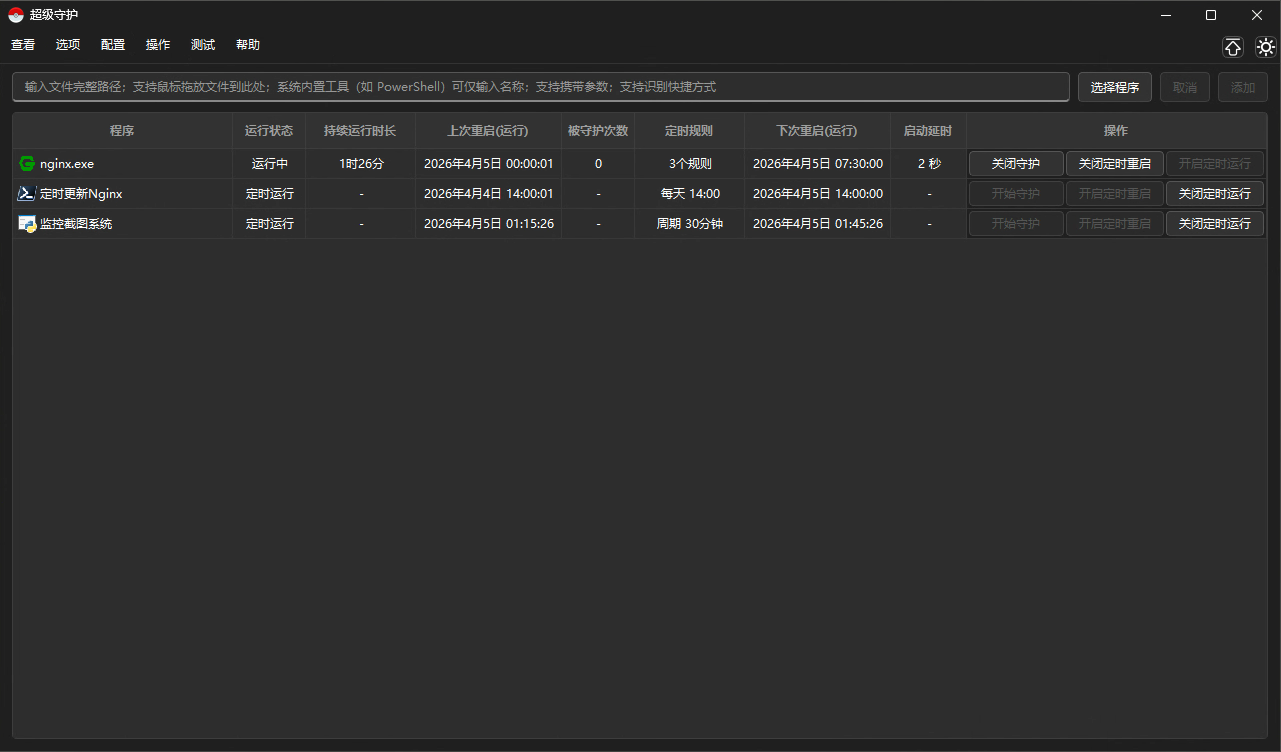
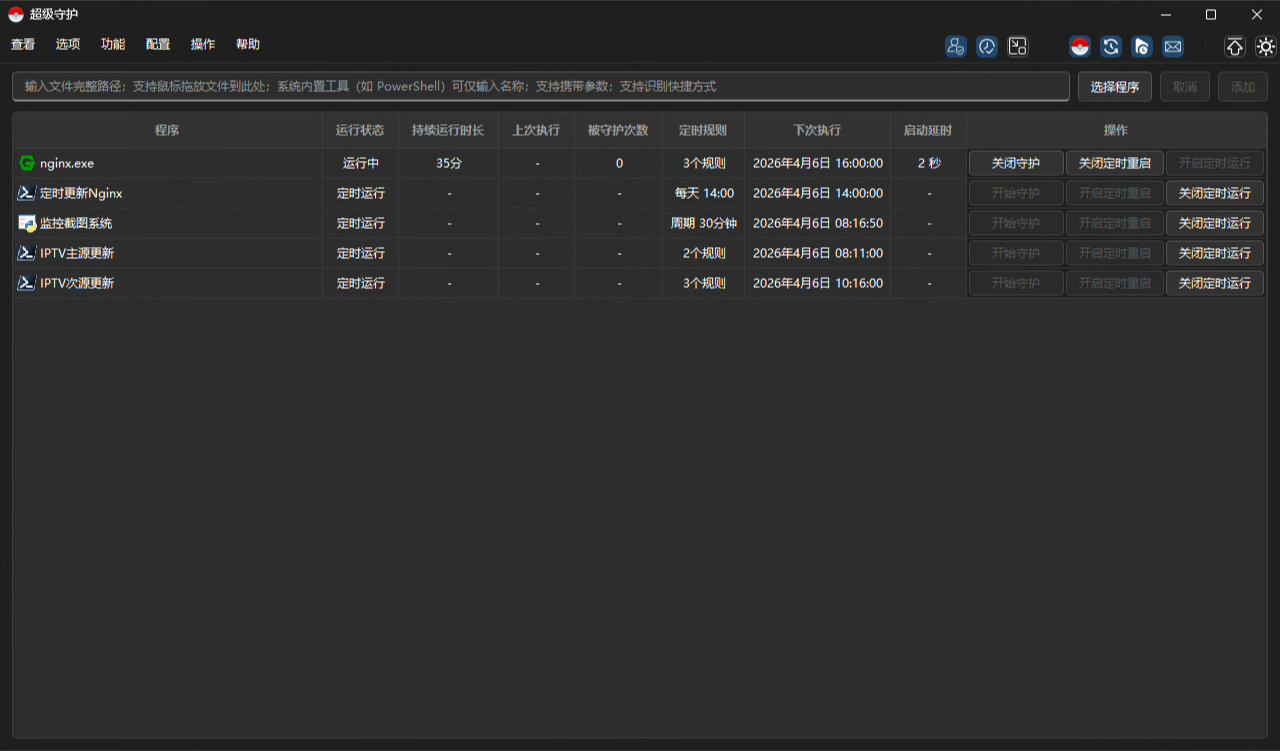
1.0.4

diff --git a/src/ui/SuperGuardianColumns.cpp b/src/ui/SuperGuardianColumns.cpp
@@ -10,7 +10,45 @@ namespace {
 
 constexpr int kActionColumn = 10;
 constexpr int kDataColumnCount = 10;
+constexpr int kProgramColumn = 1;
 constexpr int kDefaultHiddenColumns[] = { 0, 6 };
+
+int measureHeaderWidth(QTableWidget* tableWidget, int column) {
+    if (!tableWidget) return 40;
+    QHeaderView* header = tableWidget->horizontalHeader();
+    QFontMetrics fm(header->font());
+    QTableWidgetItem* hdr = tableWidget->horizontalHeaderItem(column);
+    const int textW = hdr ? fm.horizontalAdvance(hdr->text()) : 0;
+    return qMax(40, textW + 28);
+}
+
+int measureContentWidth(QTableWidget* tableWidget, int column) {
+    if (!tableWidget) return 40;
+
+    int required = measureHeaderWidth(tableWidget, column);
+    for (int row = 0; row < tableWidget->rowCount(); ++row) {
+        if (QWidget* cellWidget = tableWidget->cellWidget(row, column)) {
+            required = qMax(required, cellWidget->sizeHint().width() + 12);
+        }
+
+        QTableWidgetItem* item = tableWidget->item(row, column);
+        if (!item) continue;
+
+        QFontMetrics fm(item->font().family().isEmpty() ? tableWidget->font() : item->font());
+        int textW = fm.horizontalAdvance(item->text()) + 16;
+
+        if (column == kProgramColumn) {
+            if (!qvariant_cast<QIcon>(item->data(Qt::DecorationRole)).isNull())
+                textW += 24;
+            if (item->data(Qt::UserRole + 2).toBool())
+                textW += 20;
+        }
+
+        required = qMax(required, textW);
+    }
+
+    return required;
+}
 
 }
 
@@ -54,11 +92,16 @@ void SuperGuardian::distributeColumnWidths() {
     }
 
     double visibleSum = 0;
+    int visibleMinTotal = 0;
     for (int i = 0; i < kDataColumnCount; i++) {
-        if (!tableWidget->isColumnHidden(i)) visibleSum += ratios[i];
+        if (!tableWidget->isColumnHidden(i)) {
+            visibleSum += ratios[i];
+            visibleMinTotal += minWidths[i];
+        }
     }
     if (visibleSum <= 0.001) { autoResizingColumns = false; return; }
 
+    int extraAvailable = qMax(0, available - visibleMinTotal);
     int remaining = available;
     int lastVisible = -1;
     for (int i = 0; i < kDataColumnCount; i++) {
@@ -67,9 +110,10 @@ void SuperGuardian::distributeColumnWidths() {
     for (int i = 0; i < kDataColumnCount; i++) {
         if (tableWidget->isColumnHidden(i)) continue;
         if (i == lastVisible) {
-            tableWidget->setColumnWidth(i, qMax(minWidths[i], remaining));
+            tableWidget->setColumnWidth(i, qMax(0, remaining));
         } else {
-            int w = qMax(minWidths[i], (int)(available * ratios[i] / visibleSum));
+            int extra = (int)(extraAvailable * ratios[i] / visibleSum);
+            int w = minWidths[i] + extra;
             tableWidget->setColumnWidth(i, w);
             remaining -= w;
         }
@@ -90,7 +134,126 @@ void SuperGuardian::saveColumnWidths() {
 
 void SuperGuardian::resetColumnWidths() {
     ConfigDatabase::instance().remove(u"columnRatios"_s);
-    distributeColumnWidths();
+    if (!tableWidget) return;
+
+    autoResizingColumns = true;
+
+    const int actionWidth = tableWidget->columnWidth(kActionColumn);
+    const int available = tableWidget->viewport()->width() - actionWidth;
+    if (available <= 100) {
+        autoResizingColumns = false;
+        return;
+    }
+
+    QVector<int> visibleColumns;
+    visibleColumns.reserve(kDataColumnCount);
+    for (int i = 0; i < kDataColumnCount; ++i) {
+        if (!tableWidget->isColumnHidden(i))
+            visibleColumns.append(i);
+    }
+    if (visibleColumns.isEmpty()) {
+        autoResizingColumns = false;
+        return;
+    }
+
+    QVector<int> headerWidths(kDataColumnCount, 40);
+    QVector<int> requiredWidths(kDataColumnCount, 40);
+    for (int col : visibleColumns) {
+        headerWidths[col] = measureHeaderWidth(tableWidget, col);
+        requiredWidths[col] = measureContentWidth(tableWidget, col);
+    }
+
+    const bool programVisible = !tableWidget->isColumnHidden(kProgramColumn);
+    int otherRequiredTotal = 0;
+    for (int col : visibleColumns) {
+        if (col == kProgramColumn) continue;
+        otherRequiredTotal += requiredWidths[col];
+    }
+
+    QVector<int> finalWidths(kDataColumnCount, 0);
+    for (int col : visibleColumns) {
+        if (col != kProgramColumn)
+            finalWidths[col] = requiredWidths[col];
+    }
+
+    if (programVisible) {
+        int remainingForProgram = available - otherRequiredTotal;
+        finalWidths[kProgramColumn] = qMax(remainingForProgram, headerWidths[kProgramColumn]);
+
+        int total = 0;
+        for (int col : visibleColumns)
+            total += finalWidths[col];
+
+        if (total > available) {
+            int overflow = total - available;
+
+            // 先从“程序”列借用
+            int programShrinkable = qMax(0, finalWidths[kProgramColumn] - headerWidths[kProgramColumn]);
+            int borrowFromProgram = qMin(programShrinkable, overflow);
+            finalWidths[kProgramColumn] -= borrowFromProgram;
+            overflow -= borrowFromProgram;
+
+            // 若仍然超出，只能把其它列压缩到表头最小宽度，仍保证总宽度不超出可用区域
+            if (overflow > 0) {
+                for (int col : visibleColumns) {
+                    if (col == kProgramColumn || overflow <= 0) continue;
+                    int shrinkable = qMax(0, finalWidths[col] - headerWidths[col]);
+                    int take = qMin(shrinkable, overflow);
+                    finalWidths[col] -= take;
+                    overflow -= take;
+                }
+            }
+
+            // 极端窄窗口兜底：程序列至少保留一个表头宽度，否则取剩余值
+            if (overflow > 0) {
+                int sumOthers = 0;
+                for (int col : visibleColumns) {
+                    if (col != kProgramColumn)
+                        sumOthers += finalWidths[col];
+                }
+                finalWidths[kProgramColumn] = qMax(0, available - sumOthers);
+            }
+        }
+
+        // 若有多余空间，全部给程序列
+        int used = 0;
+        for (int col : visibleColumns)
+            used += finalWidths[col];
+        if (used < available)
+            finalWidths[kProgramColumn] += available - used;
+    } else {
+        int used = 0;
+        for (int col : visibleColumns) {
+            finalWidths[col] = requiredWidths[col];
+            used += finalWidths[col];
+        }
+
+        if (used > available) {
+            int overflow = used - available;
+            for (int col : visibleColumns) {
+                if (overflow <= 0) break;
+                int shrinkable = qMax(0, finalWidths[col] - headerWidths[col]);
+                int take = qMin(shrinkable, overflow);
+                finalWidths[col] -= take;
+                overflow -= take;
+            }
+        }
+    }
+
+    for (int col : visibleColumns)
+        tableWidget->setColumnWidth(col, finalWidths[col]);
+
+    autoResizingColumns = false;
+}
+
+void SuperGuardian::requestResetColumnWidths() {
+    if (pendingResetColumnWidths)
+        return;
+    pendingResetColumnWidths = true;
+    QTimer::singleShot(0, this, [this]() {
+        pendingResetColumnWidths = false;
+        resetColumnWidths();
+    });
 }
 
 // ---- 列显示/隐藏管理 ----

diff --git a/src/table/DesktopSelectTable.cpp b/src/table/DesktopSelectTable.cpp
@@ -29,14 +29,25 @@ void updateOpWidgetStyle(DesktopSelectTable* table, int row) {
     bool hovered = row == table->hoveredRow();
     widget->setStyleSheet(opContainerStyle(currentThemeName() == "dark", selected, hovered));
 }
+
+int firstVisibleColumn(const DesktopSelectTable* table) {
+    if (!table)
+        return 0;
+    for (int col = 0; col < table->columnCount(); ++col) {
+        if (!table->isColumnHidden(col))
+            return col;
+    }
+    return 0;
+}
 }
 
 int DesktopSelectTable::dropTargetRow(const QPoint& pos) {
     int rc = rowCount();
     if (rc == 0)
         return 0;
+    const int refCol = firstVisibleColumn(this);
     for (int row = 0; row < rc; ++row) {
-        QRect rect = visualRect(model()->index(row, 0));
+        QRect rect = visualRect(model()->index(row, refCol));
         rect.setLeft(0);
         rect.setRight(viewport()->width());
         if (pos.y() < rect.center().y())
@@ -172,6 +183,7 @@ void DesktopSelectTable::mouseMoveEvent(QMouseEvent* e) {
 
     if (m_rowDragMode) {
         int target = dropTargetRow(e->pos());
+        const int refCol = firstVisibleColumn(this);
         if (!m_dropLine) {
             m_dropLine = new QFrame(viewport());
             m_dropLine->setFixedHeight(2);
@@ -179,9 +191,9 @@ void DesktopSelectTable::mouseMoveEvent(QMouseEvent* e) {
         }
         int y = 0;
         if (target < rowCount()) {
-            y = visualRect(model()->index(target, 0)).top();
+            y = visualRect(model()->index(target, refCol)).top();
         } else if (rowCount() > 0) {
-            y = visualRect(model()->index(rowCount() - 1, 0)).bottom() + 1;
+            y = visualRect(model()->index(rowCount() - 1, refCol)).bottom() + 1;
         }
         m_dropLine->setGeometry(0, y - 1, viewport()->width(), 2);
         m_dropLine->show();
@@ -196,8 +208,9 @@ void DesktopSelectTable::mouseMoveEvent(QMouseEvent* e) {
     m_band->setGeometry(rect);
 
     QItemSelection bandSelection;
+    const int refCol = firstVisibleColumn(this);
     for (int row = 0; row < rowCount(); ++row) {
-        QModelIndex first = model()->index(row, 0);
+        QModelIndex first = model()->index(row, refCol);
         QRect rowRect = visualRect(first);
         rowRect.setLeft(0);
         rowRect.setRight(viewport()->width());

diff --git a/src/ui/SuperGuardianTray.cpp b/src/ui/SuperGuardianTray.cpp
@@ -221,6 +221,7 @@ void SuperGuardian::toggleVisible() {
         showNormal();
         raise();
         activateWindow();
+        QTimer::singleShot(0, this, &SuperGuardian::resetColumnWidths);
     }
 }
 
@@ -271,6 +272,7 @@ void SuperGuardian::changeEvent(QEvent* event) {
     if (event->type() == QEvent::WindowStateChange) {
         if (!(windowState() & Qt::WindowMinimized) && isVisible()) {
             show();
+            QTimer::singleShot(0, this, &SuperGuardian::resetColumnWidths);
         }
     }
     QMainWindow::changeEvent(event);
@@ -283,11 +285,7 @@ void SuperGuardian::resizeEvent(QResizeEvent* event) {
 
 void SuperGuardian::showEvent(QShowEvent* event) {
     QMainWindow::showEvent(event);
-    static bool firstShow = true;
-    if (firstShow) {
-        firstShow = false;
-        QTimer::singleShot(0, this, &SuperGuardian::distributeColumnWidths);
-    }
+    QTimer::singleShot(0, this, &SuperGuardian::resetColumnWidths);
 }
 
 bool SuperGuardian::nativeEvent(const QByteArray& eventType, void* message, qintptr* result) {
@@ -297,6 +295,7 @@ bool SuperGuardian::nativeEvent(const QByteArray& eventType, void* message, qint
         showNormal();
         raise();
         activateWindow();
+        QTimer::singleShot(0, this, &SuperGuardian::resetColumnWidths);
         if (result) *result = 0;
         return true;
     }

diff --git a/src/app/SuperGuardianInit.cpp b/src/app/SuperGuardianInit.cpp
@@ -94,6 +94,25 @@ void SuperGuardian::initSignals() {
     connect(timer, &QTimer::timeout, this, &SuperGuardian::checkProcesses);
     timer->start(2000);
 
+    if (tableWidget && tableWidget->model()) {
+        connect(tableWidget->model(), &QAbstractItemModel::dataChanged,
+            this, [this](const QModelIndex&, const QModelIndex&, const QList<int>&) {
+                requestResetColumnWidths();
+            });
+        connect(tableWidget->model(), &QAbstractItemModel::rowsInserted,
+            this, [this](const QModelIndex&, int, int) {
+                requestResetColumnWidths();
+            });
+        connect(tableWidget->model(), &QAbstractItemModel::rowsRemoved,
+            this, [this](const QModelIndex&, int, int) {
+                requestResetColumnWidths();
+            });
+        connect(tableWidget->model(), &QAbstractItemModel::modelReset,
+            this, [this]() {
+                requestResetColumnWidths();
+            });
+    }
+
     connect(tray, &QSystemTrayIcon::activated, this, &SuperGuardian::onTrayActivated);
     static_cast<DesktopSelectTable*>(tableWidget)->onCellDoubleClicked = [this](int row, int col) {
         if (col == 10) return;

diff --git a/include/SuperGuardian.h b/include/SuperGuardian.h
@@ -49,6 +49,7 @@ private:
     int sortState = 0;
     int activeSortSection = -1;
     bool autoResizingColumns = false;
+    bool pendingResetColumnWidths = false;
     bool m_revertingHeader = false;
     bool m_exiting = false;
 
@@ -111,6 +112,7 @@ private:
     void showAboutDialog();
     void exportDiagnosticInfo();
     void initSignals();
+    void requestResetColumnWidths();
     void updateToolbarIcons();
     QIcon makeToolbarIcon(const QString& letter, bool active, const QString& theme) const;
 

diff --git a/src/app/SuperGuardianProcess.cpp b/src/app/SuperGuardianProcess.cpp
@@ -228,6 +228,7 @@ void SuperGuardian::updateButtonStates(int row) {
     if (guardBtn) guardBtn->setEnabled(!runActive);
     if (srBtn) srBtn->setEnabled(!runActive);
     if (runBtn) runBtn->setEnabled(!guardOrRestartActive);
+    requestResetColumnWidths();
 }
 
 void SuperGuardian::addProgram(const QString& path, const QString& extraArgs) {

diff --git a/README.md b/README.md
@@ -6,6 +6,8 @@
 
 ## 版本限制
 
+仅支持x64系统。
+
 最低 Windows 版本：Windows 10 21H2
 > 低于此版本可能可用但不保证。
 
